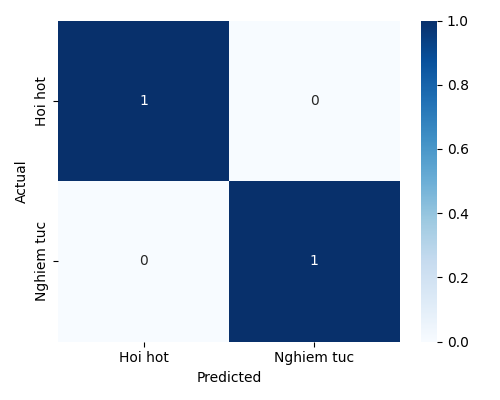
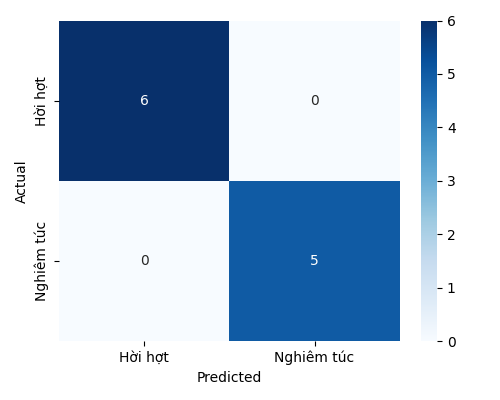
cập nhật train AI thêm feature đánh giá

diff --git a/ai-service/main.py b/ai-service/main.py
@@ -66,6 +66,11 @@ MODEL_DIR = BASE_DIR / "models"
 MODEL_PATH = MODEL_DIR / "superficial_classifier.joblib"
 METADATA_PATH = MODEL_DIR / "superficial_classifier_metadata.json"
 CONFUSION_MATRIX_PATH = MODEL_DIR / "confusion_matrix.png"
+FAST_ANSWER_MS_PER_QUESTION = 5000
+LONGEST_SAME_ANSWER_MIN_SCALE_QUESTIONS = 5
+LONGEST_SAME_ANSWER_RATE_THRESHOLD = 0.7
+SAME_ANSWER_RATE_MIN_SCALE_QUESTIONS = 10
+SAME_ANSWER_RATE_THRESHOLD = 0.8
 
 
 class TrainingRecord(BaseModel):
@@ -74,6 +79,10 @@ class TrainingRecord(BaseModel):
     answerChangeCount: int = 0
     avgAnswerLength: float = 0
     questionCount: int = 0
+    longestSameAnswerRate: float = 0
+    sameAnswerRate: float = 0
+    avgDurationPerQuestionMs: float = 0
+    scaleQuestionCount: int = 0
     label: int = Field(ge=0, le=1)
 
 
@@ -138,49 +147,101 @@ def preprocess_text(text: str) -> str:
     return normalized
 
 
-def build_features(request: AnalyzeRequest) -> dict:
-    answer_texts = [answer.answerText.strip() for answer in request.answers if answer.answerText.strip()]
-    answer_text = " ".join(answer_texts)
-    total_duration_ms = sum(log.durationMs or 0 for log in request.behaviorLogs)
-    answer_change_count = sum(1 for log in request.behaviorLogs if log.eventType == "answer_change")
-    avg_answer_length = sum(len(value) for value in answer_texts) / len(answer_texts) if answer_texts else 0
-
-    return {
-        "answer_text": preprocess_text(answer_text),
-        "total_duration_ms": total_duration_ms,
-        "answer_change_count": answer_change_count,
-        "avg_answer_length": avg_answer_length,
-        "question_count": len(request.answers),
-    }
-
-
-def detect_repeated_scale_pattern(request: AnalyzeRequest) -> Optional[dict]:
+def calculate_scale_answer_stats(request: AnalyzeRequest) -> dict:
     scale_values = [
         answer.answerText.strip()
         for answer in request.answers
         if (answer.questionKind or "").lower() in {"linear_scale", "rating"}
         and answer.answerText.strip()
     ]
+    total = len(scale_values)
 
-    if len(scale_values) < 3:
-        return None
-
-    counts = {}
-    for value in scale_values:
-        counts[value] = counts.get(value, 0) + 1
-
-    repeated_value, repeated_count = max(counts.items(), key=lambda item: item[1])
-    repeated_rate = repeated_count / len(scale_values)
-
-    if repeated_rate >= 0.8:
+    if total == 0:
         return {
-            "value": repeated_value,
-            "count": repeated_count,
-            "total": len(scale_values),
-            "rate": repeated_rate,
+            "longestValue": None,
+            "longestCount": 0,
+            "longestRate": 0,
+            "sameAnswerValue": None,
+            "sameAnswerCount": 0,
+            "sameAnswerRate": 0,
+            "total": 0,
+            "longestTriggered": False,
+            "sameAnswerTriggered": False,
         }
 
-    return None
+    longest_value = scale_values[0]
+    longest_count = 1
+    current_value = scale_values[0]
+    current_count = 1
+    counts = {scale_values[0]: 1}
+
+    for value in scale_values[1:]:
+        counts[value] = counts.get(value, 0) + 1
+
+        if value == current_value:
+            current_count += 1
+        else:
+            current_value = value
+            current_count = 1
+
+        if current_count > longest_count:
+            longest_value = current_value
+            longest_count = current_count
+
+    most_common_value, most_common_count = max(counts.items(), key=lambda item: item[1])
+    longest_rate = longest_count / total
+    same_answer_rate = most_common_count / total
+    longest_triggered = (
+        total >= LONGEST_SAME_ANSWER_MIN_SCALE_QUESTIONS
+        and longest_rate >= LONGEST_SAME_ANSWER_RATE_THRESHOLD
+    )
+    same_answer_triggered = (
+        total >= SAME_ANSWER_RATE_MIN_SCALE_QUESTIONS
+        and same_answer_rate >= SAME_ANSWER_RATE_THRESHOLD
+    )
+
+    return {
+        "longestValue": longest_value,
+        "longestCount": longest_count,
+        "longestRate": longest_rate,
+        "sameAnswerValue": most_common_value,
+        "sameAnswerCount": most_common_count,
+        "sameAnswerRate": same_answer_rate,
+        "total": total,
+        "longestTriggered": longest_triggered,
+        "sameAnswerTriggered": same_answer_triggered,
+    }
+
+
+def build_features(request: AnalyzeRequest) -> dict:
+    answer_texts = [answer.answerText.strip() for answer in request.answers if answer.answerText.strip()]
+    answer_text = " ".join(answer_texts)
+    total_duration_ms = sum(log.durationMs or 0 for log in request.behaviorLogs)
+    answer_change_count = sum(1 for log in request.behaviorLogs if log.eventType == "answer_change")
+    avg_answer_length = sum(len(value) for value in answer_texts) / len(answer_texts) if answer_texts else 0
+    question_count = len(request.answers)
+    scale_stats = calculate_scale_answer_stats(request)
+    avg_duration_per_question_ms = total_duration_ms / question_count if question_count else 0
+
+    return {
+        "answer_text": preprocess_text(answer_text),
+        "total_duration_ms": total_duration_ms,
+        "answer_change_count": answer_change_count,
+        "avg_answer_length": avg_answer_length,
+        "question_count": question_count,
+        "longest_same_answer_rate": scale_stats["longestRate"],
+        "same_answer_rate": scale_stats["sameAnswerRate"],
+        "avg_duration_per_question_ms": avg_duration_per_question_ms,
+        "scale_question_count": scale_stats["total"],
+        "scale_stats": scale_stats,
+    }
+
+
+def is_fast_response(total_duration_ms: int, question_count: int) -> bool:
+    if question_count <= 0:
+        return False
+
+    return (total_duration_ms / question_count) < FAST_ANSWER_MS_PER_QUESTION
 
 
 def optional_transformer_summary(text: str) -> Optional[str]:
@@ -208,8 +269,8 @@ def save_confusion_matrix(y_true, y_pred) -> Optional[str]:
         annot=True,
         fmt="d",
         cmap="Blues",
-        xticklabels=["Hoi hot", "Nghiem tuc"],
-        yticklabels=["Hoi hot", "Nghiem tuc"],
+        xticklabels=["Hời hợt", "Nghiêm túc"],
+        yticklabels=["Hời hợt", "Nghiêm túc"],
     )
     plt.xlabel("Predicted")
     plt.ylabel("Actual")
@@ -250,7 +311,23 @@ def train_superficial_model(request: TrainRequest):
         raise HTTPException(status_code=400, detail="Dataset must contain both superficial and quality labels.")
 
     df["answer_text"] = df["answerText"].fillna("").map(preprocess_text)
-    feature_columns = ["answer_text", "totalDurationMs", "answerChangeCount", "avgAnswerLength", "questionCount"]
+    df["avgDurationPerQuestionMs"] = df.apply(
+        lambda row: row["avgDurationPerQuestionMs"] or (
+            row["totalDurationMs"] / row["questionCount"] if row["questionCount"] else 0
+        ),
+        axis=1,
+    )
+    feature_columns = [
+        "answer_text",
+        "totalDurationMs",
+        "answerChangeCount",
+        "avgAnswerLength",
+        "questionCount",
+        "longestSameAnswerRate",
+        "sameAnswerRate",
+        "avgDurationPerQuestionMs",
+        "scaleQuestionCount",
+    ]
     x = df[feature_columns]
     y = df["label"]
 
@@ -271,7 +348,20 @@ def train_superficial_model(request: TrainRequest):
     preprocessor = ColumnTransformer(
         transformers=[
             ("text", TfidfVectorizer(max_features=3000, ngram_range=(1, 2)), "answer_text"),
-            ("numeric", StandardScaler(), ["totalDurationMs", "answerChangeCount", "avgAnswerLength", "questionCount"]),
+            (
+                "numeric",
+                StandardScaler(),
+                [
+                    "totalDurationMs",
+                    "answerChangeCount",
+                    "avgAnswerLength",
+                    "questionCount",
+                    "longestSameAnswerRate",
+                    "sameAnswerRate",
+                    "avgDurationPerQuestionMs",
+                    "scaleQuestionCount",
+                ],
+            ),
         ]
     )
     model = Pipeline(
@@ -333,6 +423,10 @@ def analyze_response(request: AnalyzeRequest):
         "answerChangeCount": features["answer_change_count"],
         "avgAnswerLength": features["avg_answer_length"],
         "questionCount": features["question_count"],
+        "longestSameAnswerRate": features["longest_same_answer_rate"],
+        "sameAnswerRate": features["same_answer_rate"],
+        "avgDurationPerQuestionMs": features["avg_duration_per_question_ms"],
+        "scaleQuestionCount": features["scale_question_count"],
     }])
 
     probabilities = model.predict_proba(df)[0]
@@ -340,23 +434,35 @@ def analyze_response(request: AnalyzeRequest):
     quality_score = round(quality_probability * 100)
     is_superficial = quality_score < 60
     reward_eligible = (not is_superficial) and quality_score >= 70
-    repeated_scale_pattern = detect_repeated_scale_pattern(request)
-
-    if repeated_scale_pattern:
-        quality_score = min(quality_score, 55)
-        is_superficial = True
-        reward_eligible = False
+    repeated_scale_pattern = features["scale_stats"]
+    fast_response = is_fast_response(features["total_duration_ms"], features["question_count"])
 
     transformer_summary = optional_transformer_summary(features["answer_text"])
     summary = (
-        "Model AI danh gia phan hoi co noi dung va hanh vi du tin cay."
+        "Model AI đánh giá phản hồi có nội dung và hành vi đủ tin cậy."
         if reward_eligible
-        else "Model AI phat hien dau hieu phan hoi ngan, nhanh hoac thieu tin hieu nghiem tuc."
+        else "Model AI phát hiện dấu hiệu phản hồi ngắn, nhanh hoặc thiếu tín hiệu nghiêm túc."
     )
-    if repeated_scale_pattern:
+    if repeated_scale_pattern["longestTriggered"] or repeated_scale_pattern["sameAnswerTriggered"]:
+        repeated_reasons = []
+        if repeated_scale_pattern["longestTriggered"]:
+            repeated_reasons.append(
+                f"chuỗi liên tiếp {repeated_scale_pattern['longestCount']}/{repeated_scale_pattern['total']} "
+                f"câu cùng chọn mức {repeated_scale_pattern['longestValue']}"
+            )
+        if repeated_scale_pattern["sameAnswerTriggered"]:
+            repeated_reasons.append(
+                f"tỷ lệ cùng một đáp án {repeated_scale_pattern['sameAnswerCount']}/{repeated_scale_pattern['total']} "
+                f"câu cùng chọn mức {repeated_scale_pattern['sameAnswerValue']}"
+            )
+        repeated_summary = (
+            "kèm thời gian trả lời nhanh nên đánh dấu hời hợt."
+            if fast_response
+            else "nhưng thời gian trả lời không quá nhanh nên chỉ xem là dấu hiệu nghi ngờ."
+        )
         summary = (
-            f"{summary} Phat hien {repeated_scale_pattern['count']}/{repeated_scale_pattern['total']} "
-            f"cau dang thang do/xep hang cung chon muc {repeated_scale_pattern['value']}."
+            f"{summary} Phát hiện {'; '.join(repeated_reasons)}, "
+            f"{repeated_summary}"
         )
     if transformer_summary:
         summary = f"{summary} {transformer_summary}"
@@ -373,6 +479,6 @@ def analyze_response(request: AnalyzeRequest):
         isSuperficial=is_superficial,
         rewardEligible=reward_eligible,
         analysisSummary=summary,
-        recommendation="Du dieu kien cho admin duyet coin." if reward_eligible else "Chua du dieu kien thuong coin.",
+        recommendation="Đủ điều kiện cho admin duyệt coin." if reward_eligible else "Chưa đủ điều kiện thưởng coin.",
         modelName=model_name,
     )